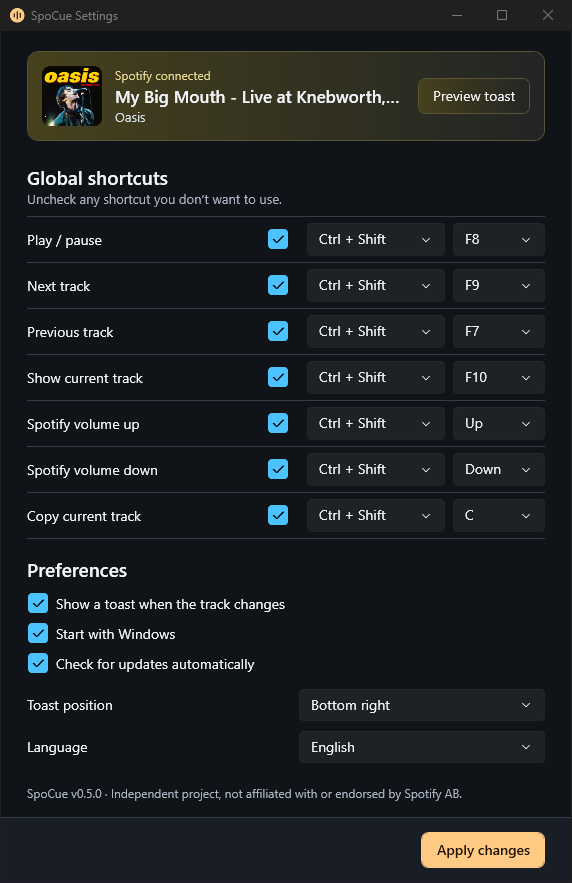
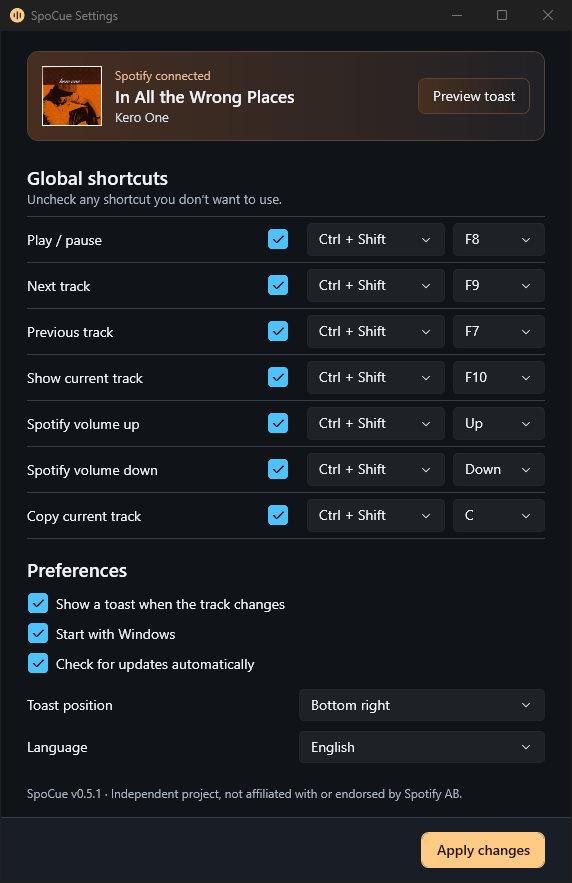
v0.5.1: Show album covers with square corners and link the Microsoft Store
- Stop rounding the artwork tile so cover text near the corners isn't clipped
- Add a Microsoft Store badge and install option to both READMEs
- Recapture README screenshots for 0.5.1

Changed region(s): [[0.208, 0.0612, 0.6836, 0.1529], [0.0594, 0.0612, 0.1783, 0.1529]]

diff --git a/src/TrackRelay/ArtworkBadge.xaml b/src/TrackRelay/ArtworkBadge.xaml
@@ -8,7 +8,8 @@
             Stroke="{DynamicResource AccentBrush}" StrokeThickness="1.8" StrokeStartLineCap="Round" StrokeEndLineCap="Round"
             VerticalAlignment="Center" HorizontalAlignment="Center" />
     </Border>
-    <Border CornerRadius="8">
+    <!-- Square on purpose: rounding the cover clips text printed near its corners. -->
+    <Border>
       <Border.Background>
         <ImageBrush ImageSource="{Binding Artwork, ElementName=Badge}" Stretch="UniformToFill" />
       </Border.Background>

diff --git a/README.ko.md b/README.ko.md
@@ -10,6 +10,7 @@
 
 <p align="center">
   <a href="https://github.com/isnow890/spocue/actions/workflows/build.yml"><img src="https://img.shields.io/github/actions/workflow/status/isnow890/spocue/build.yml?label=build&style=flat-square" alt="CI Build" /></a>
+  <a href="https://apps.microsoft.com/detail/9N85N2516FLS"><img src="https://img.shields.io/badge/Microsoft%20Store-SpoCue%20%EB%B0%9B%EA%B8%B0-0078D4?style=flat-square&logo=microsoft&logoColor=white" alt="Microsoft Store에서 받기" /></a>
   <a href="https://github.com/isnow890/spocue/releases/latest"><img src="https://img.shields.io/github/v/release/isnow890/spocue?style=flat-square" alt="Latest Release" /></a>
   <img src="https://img.shields.io/badge/Windows-10%20%2F%2011%20(x64)-0078D4?style=flat-square&logo=windows&logoColor=white" alt="Windows 10 / 11" />
   <img src="https://img.shields.io/badge/.NET-10%20WPF-512BD4?style=flat-square&logo=dotnet&logoColor=white" alt=".NET 10 WPF" />
@@ -62,18 +63,22 @@
 
 ## 설치 방법
 
-### 방법 1: 설치 프로그램 (`Setup.exe` — 권장)
+### 방법 1: Microsoft Store (권장)
+
+[Microsoft Store](https://apps.microsoft.com/detail/9N85N2516FLS)에서 SpoCue를 설치합니다. Store가 패키지에 서명하고 업데이트도 알아서 설치해 줍니다.
+
+### 방법 2: 설치 프로그램 (`Setup.exe`)
 
 1. [Releases](https://github.com/isnow890/spocue/releases/latest)에서 `spocue-vX.Y.Z-win-x64-setup.exe`를 받습니다.
 2. 실행하면 관리자 권한 창 없이 `%LOCALAPPDATA%\Programs\SpoCue`에 설치되고, 시작 메뉴 바로가기와 Windows '설치된 앱' 제거 항목이 등록됩니다.
 3. 설치 마지막 화면에서 바로 실행하거나 시작 메뉴에서 **SpoCue**를 엽니다.
 
-### 방법 2: 무설치 포터블 (`.zip`)
+### 방법 3: 무설치 포터블 (`.zip`)
 
 1. [Releases](https://github.com/isnow890/spocue/releases/latest)에서 `spocue-vX.Y.Z-win-x64.zip`을 받습니다.
 2. 원하는 폴더에 압축을 풀고 `SpoCue.exe`를 실행합니다. 설치본과 포터블 모두 .NET 10 런타임이 들어 있어 따로 설치할 것이 없습니다.
 
-### 방법 3: 소스 코드로 직접 빌드
+### 방법 4: 소스 코드로 직접 빌드
 
 Windows 10 (2004 이상) 또는 Windows 11, 그리고 [.NET 10 SDK](https://dotnet.microsoft.com/download/dotnet/10.0)가 필요합니다.
 
@@ -88,7 +93,7 @@ dotnet run --project src/TrackRelay/TrackRelay.csproj -- --settings
 설치 프로그램(`Setup.exe`)과 포터블 `.zip`, `SHA256SUMS.txt` 패키징 (Inno Setup 6 필요):
 
 ```powershell
-powershell -ExecutionPolicy Bypass -File 배포/패키지-빌드.ps1 -Version 0.5.0
+powershell -ExecutionPolicy Bypass -File 배포/패키지-빌드.ps1 -Version 0.5.1
 ```
 
 ---

diff --git a/README.md b/README.md
@@ -10,6 +10,7 @@
 
 <p align="center">
   <a href="https://github.com/isnow890/spocue/actions/workflows/build.yml"><img src="https://img.shields.io/github/actions/workflow/status/isnow890/spocue/build.yml?label=build&style=flat-square" alt="CI Build" /></a>
+  <a href="https://apps.microsoft.com/detail/9N85N2516FLS"><img src="https://img.shields.io/badge/Microsoft%20Store-Get%20SpoCue-0078D4?style=flat-square&logo=microsoft&logoColor=white" alt="Get it from Microsoft Store" /></a>
   <a href="https://github.com/isnow890/spocue/releases/latest"><img src="https://img.shields.io/github/v/release/isnow890/spocue?style=flat-square" alt="Latest Release" /></a>
   <img src="https://img.shields.io/badge/Windows-10%20%2F%2011%20(x64)-0078D4?style=flat-square&logo=windows&logoColor=white" alt="Windows 10 / 11" />
   <img src="https://img.shields.io/badge/.NET-10%20WPF-512BD4?style=flat-square&logo=dotnet&logoColor=white" alt=".NET 10 WPF" />
@@ -62,18 +63,22 @@ If you used **Toastify** years ago, you probably miss controlling Spotify from t
 
 ## Installation
 
-### Option 1: Installer (`Setup.exe` — Recommended)
+### Option 1: Microsoft Store (Recommended)
+
+Install SpoCue from the [Microsoft Store](https://apps.microsoft.com/detail/9N85N2516FLS). The Store signs the package and keeps SpoCue up to date for you.
+
+### Option 2: Installer (`Setup.exe`)
 
 1. Download `spocue-vX.Y.Z-win-x64-setup.exe` from [Releases](https://github.com/isnow890/spocue/releases/latest).
 2. Run the installer. It installs to `%LOCALAPPDATA%\Programs\SpoCue` without asking for admin rights, adds a Start Menu shortcut, and registers an uninstaller in Windows *Installed Apps*.
 3. Launch **SpoCue** at the end of setup or from the Start Menu.
 
-### Option 2: Portable ZIP (`.zip`)
+### Option 3: Portable ZIP (`.zip`)
 
 1. Download `spocue-vX.Y.Z-win-x64.zip` from [Releases](https://github.com/isnow890/spocue/releases/latest).
 2. Extract the folder wherever you want to keep it and run `SpoCue.exe`. The .NET 10 runtime is bundled in both the installer and the ZIP.
 
-### Option 3: Build from Source
+### Option 4: Build from Source
 
 Requires Windows 10 (2004+) or Windows 11, and the [.NET 10 SDK](https://dotnet.microsoft.com/download/dotnet/10.0).
 
@@ -88,7 +93,7 @@ dotnet run --project src/TrackRelay/TrackRelay.csproj -- --settings
 To build the installer (`Setup.exe`), portable `.zip`, and `SHA256SUMS.txt` (requires Inno Setup 6):
 
 ```powershell
-powershell -ExecutionPolicy Bypass -File 배포/패키지-빌드.ps1 -Version 0.5.0
+powershell -ExecutionPolicy Bypass -File 배포/패키지-빌드.ps1 -Version 0.5.1
 ```
 
 ---
